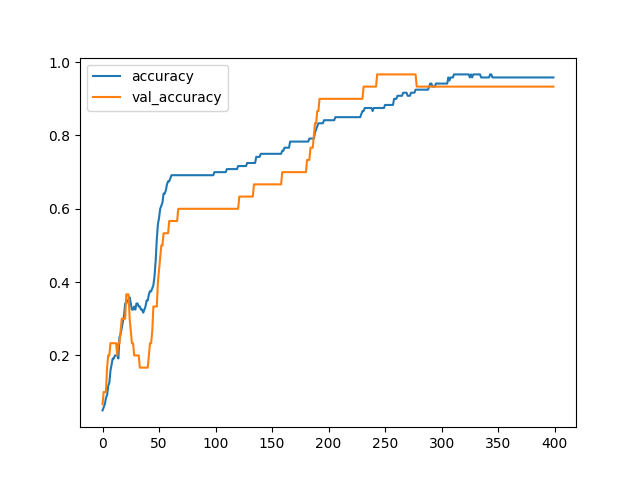
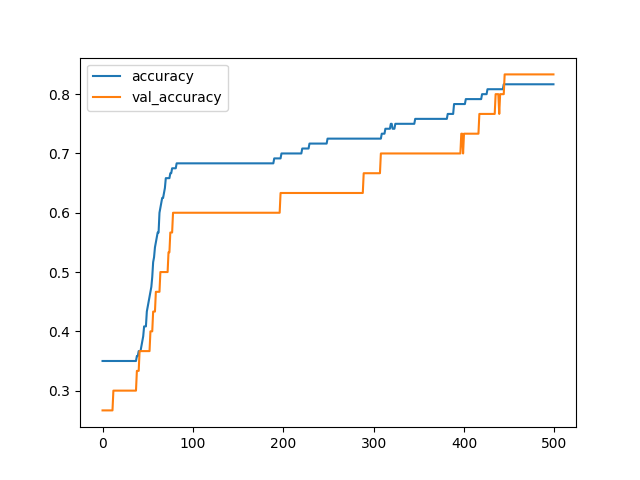
Update model parameters (accuracy 96%)

diff --git a/dff/classifier/iris-dataset-classifier/classifier.py b/dff/classifier/iris-dataset-classifier/classifier.py
@@ -18,8 +18,8 @@ from tensorflow.keras.callbacks import EarlyStopping
 from tensorflow.keras.models import load_model
 import joblib
 
-epochs = 400
-patience = 4
+epochs = 500
+patience = 3
 
 
 def read_data():
